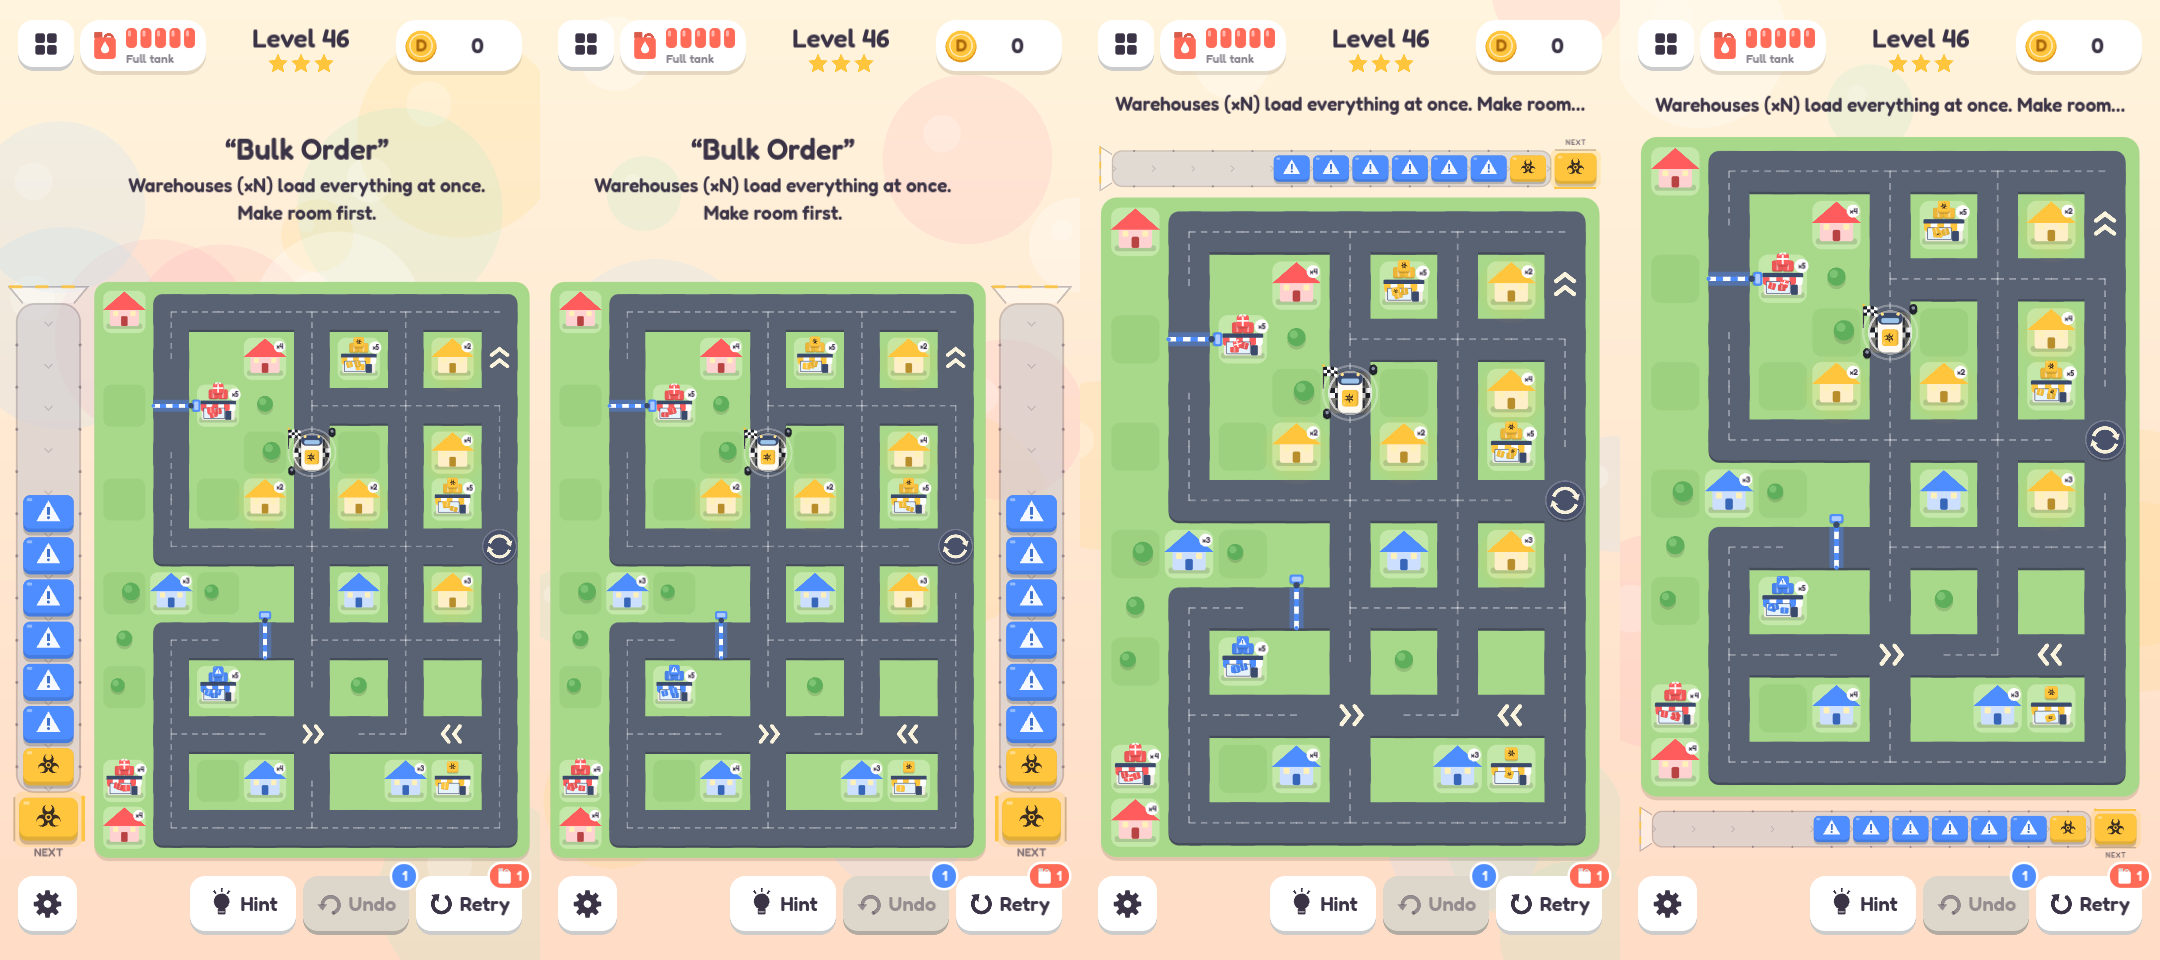
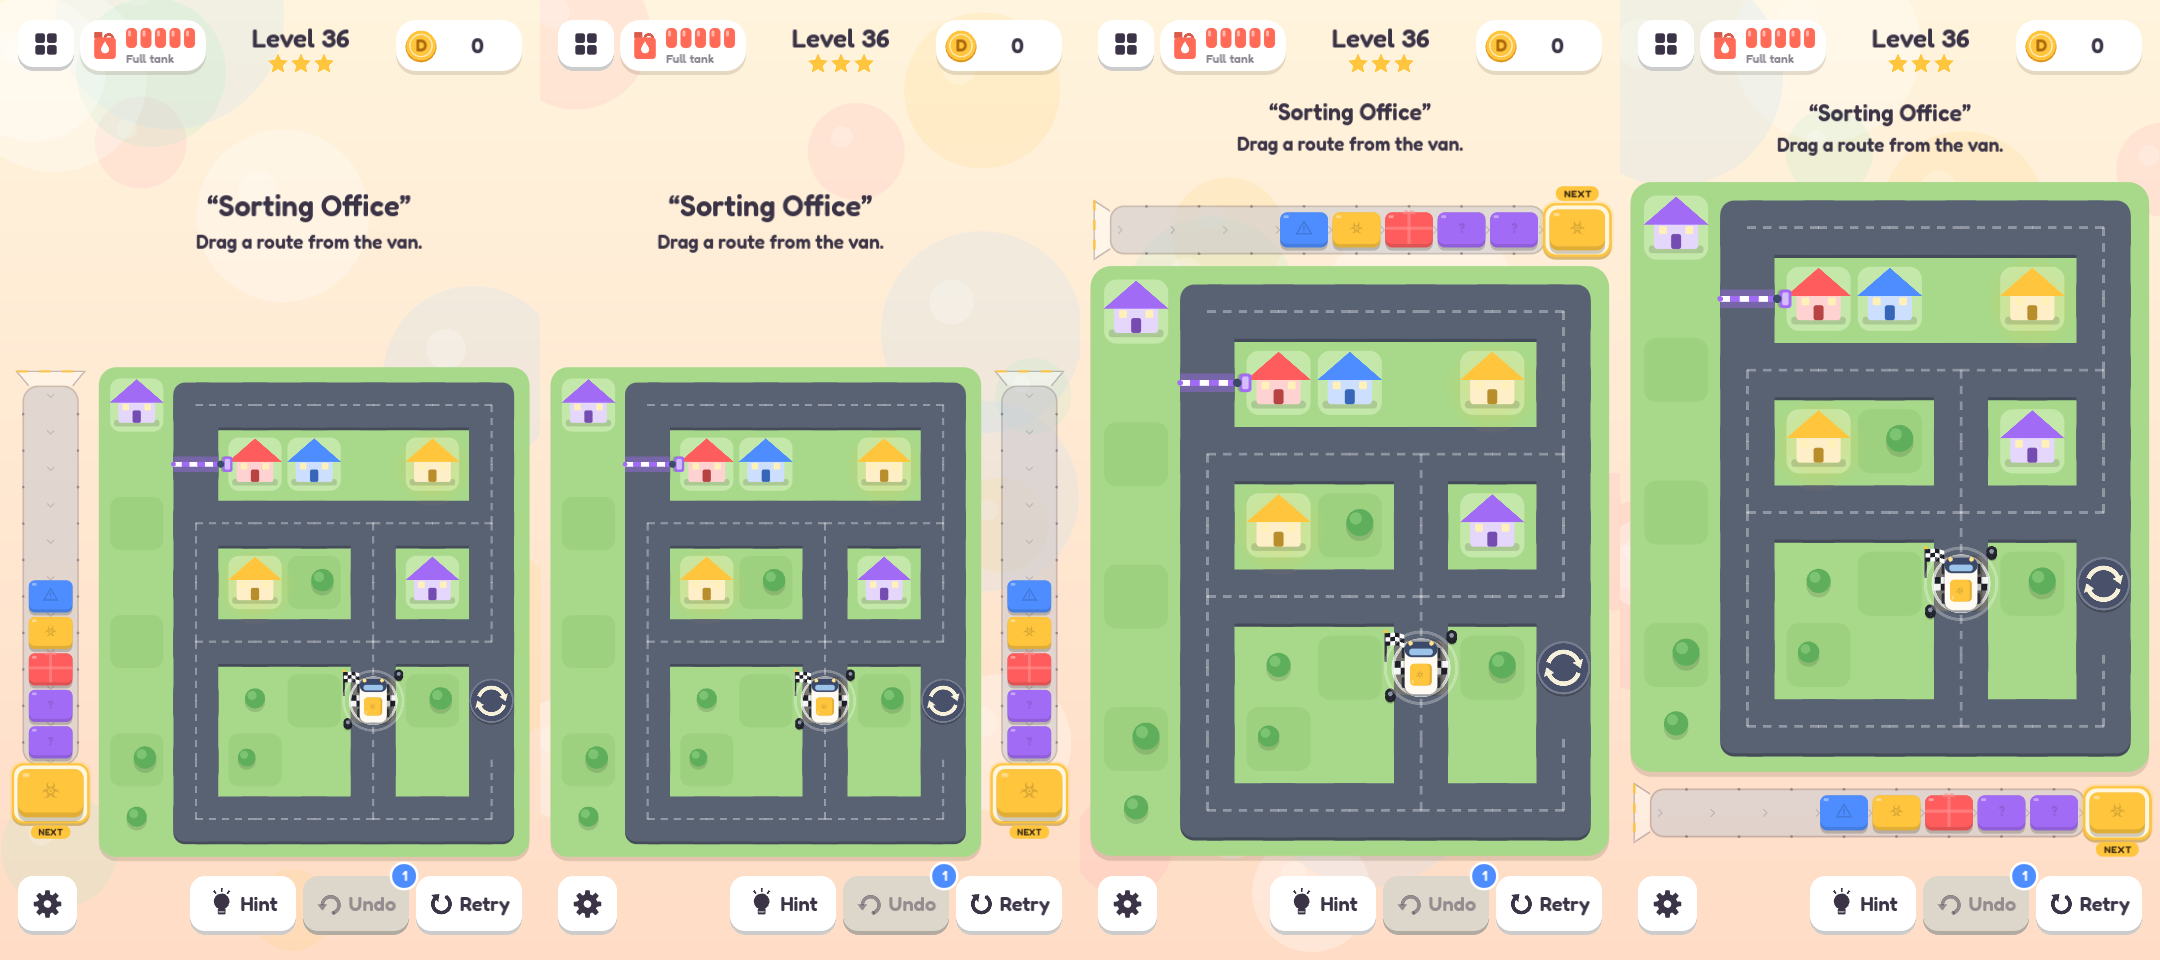
Quieter package stamps, bigger next crate in the side chute
- Class marks are faint tone-on-tone stamps now (the gift ribbon a pale
  shade), so they read as flavour, not a rule.
- Upright chute: the next package is 1.5x the queue (the queue is a touch
  smaller, so the board keeps its width), in a gold-framed window with a
  slow glow and a gold NEXT tag, and the mouth sits 44 px higher, up by
  the board's bottom row instead of down among the buttons.

diff --git a/README.md b/README.md
@@ -113,12 +113,14 @@ as a little flame inside the Daily button.
 - **The load** rides in a **package chute**: standing up beside the board (left by default) with its
   mouth at the bottom, or lying along the top or bottom of the board with its mouth at the right end
   (Options → Package chute; sideways play always has it on top). The **next** package sits in the
-  mouth, a little bigger, lit gold, over "NEXT"; the rest queue up the tube in the order they'll go out.
+  mouth in a gold-framed window with a gold NEXT tag (half again as big as the rest when the chute
+  stands beside the board, its mouth up by the board's bottom row); the rest queue up the tube in the
+  order they'll go out.
   It works like a real van: the last one in is first out, so a collected parcel comes in at the mouth
   and pushes the others back. On delivery the next package drops out of the mouth into the van, then
-  flies on to the house. Packages are wider than tall, and each colour is its own class with its own
-  mark: red gifts (ribbon and bow), yellow biohazard, blue caution, purple mystery, green organic,
-  orange hot. Houses next in line glow softly in their colour. Tap a package and the houses waiting for
+  flies on to the house. Packages are wider than tall, and each colour is its own class with a faint
+  stamp, just for flavour (the colour is what matters): red gifts (a pale ribbon), yellow biohazard,
+  blue caution, purple mystery, green organic, orange hot. Houses next in line glow softly in their colour. Tap a package and the houses waiting for
   that colour wave. No level starts with more than 12 aboard or needs more than 12 at once; if a wrong
   turn past a warehouse overloads the van, the extra wait behind a "+N" at the back of the chute, and
   you can drag along the chute to scroll through them.
